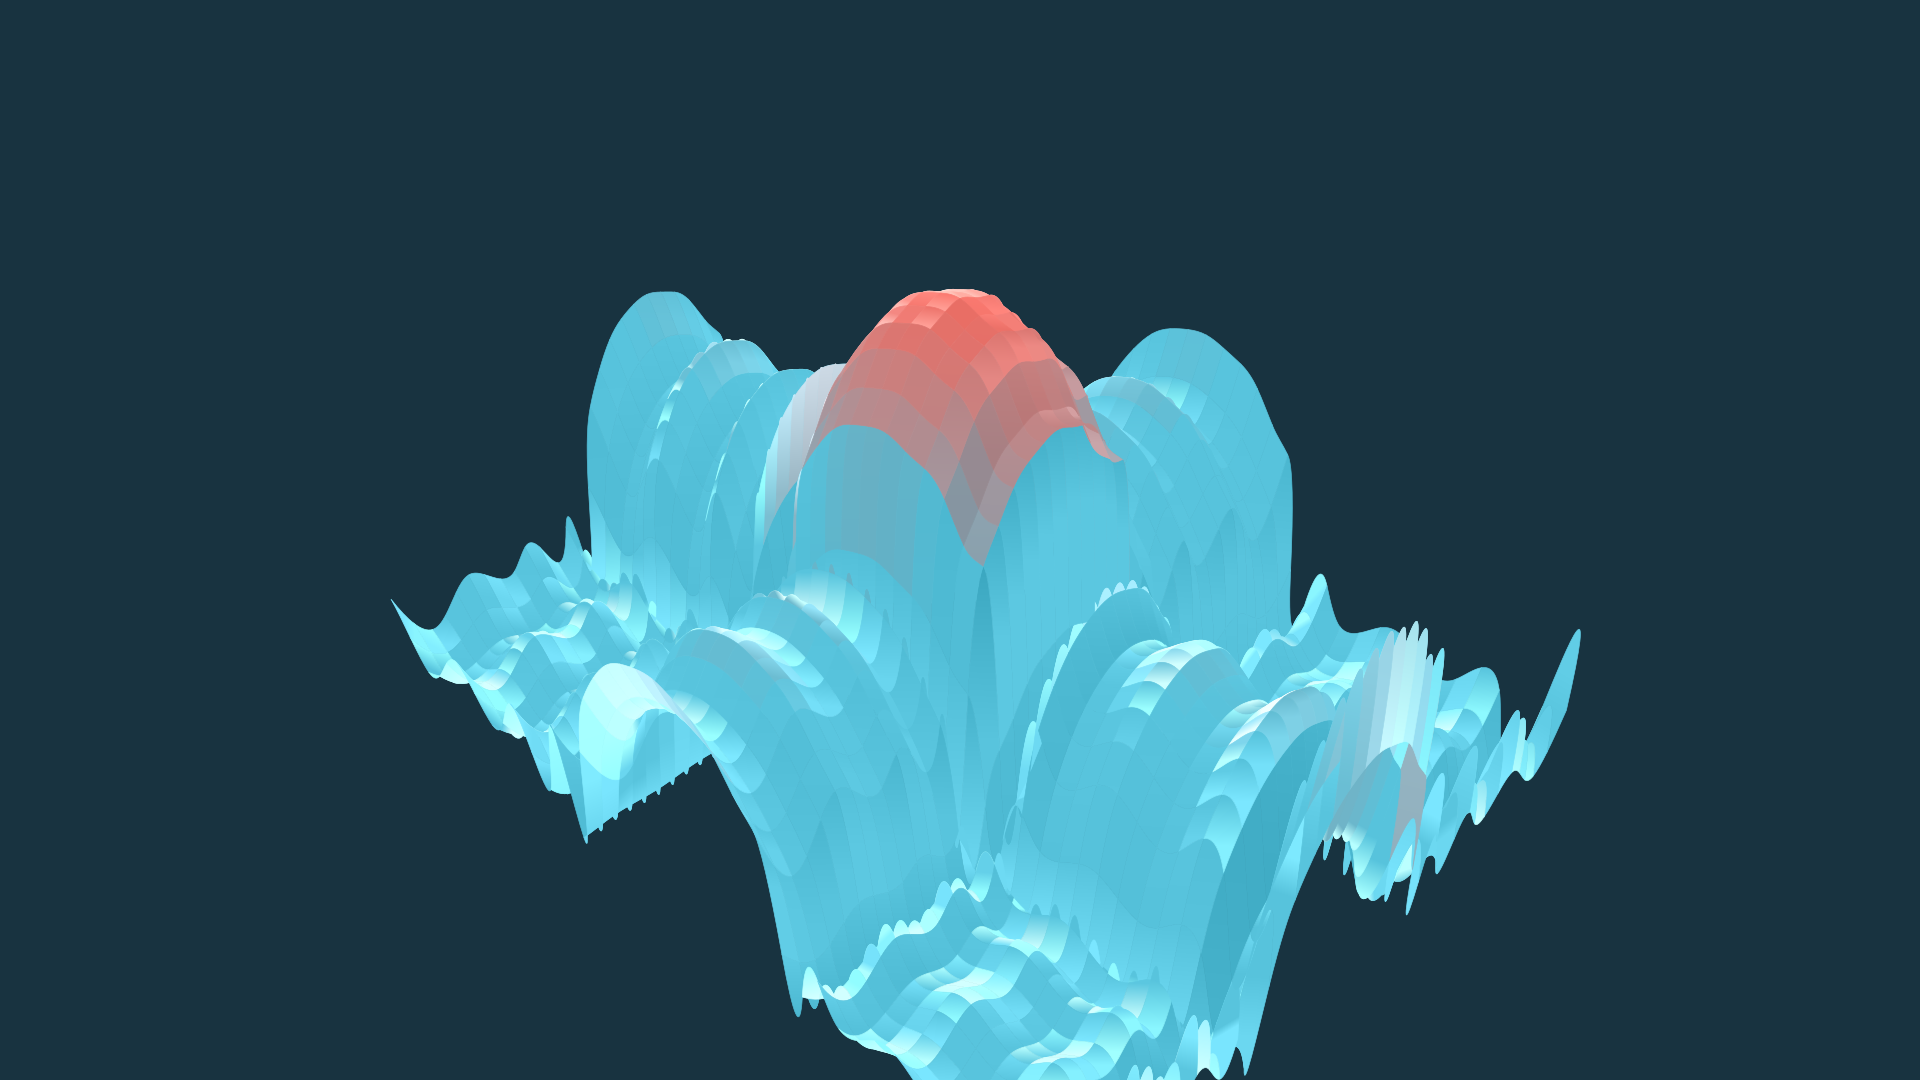
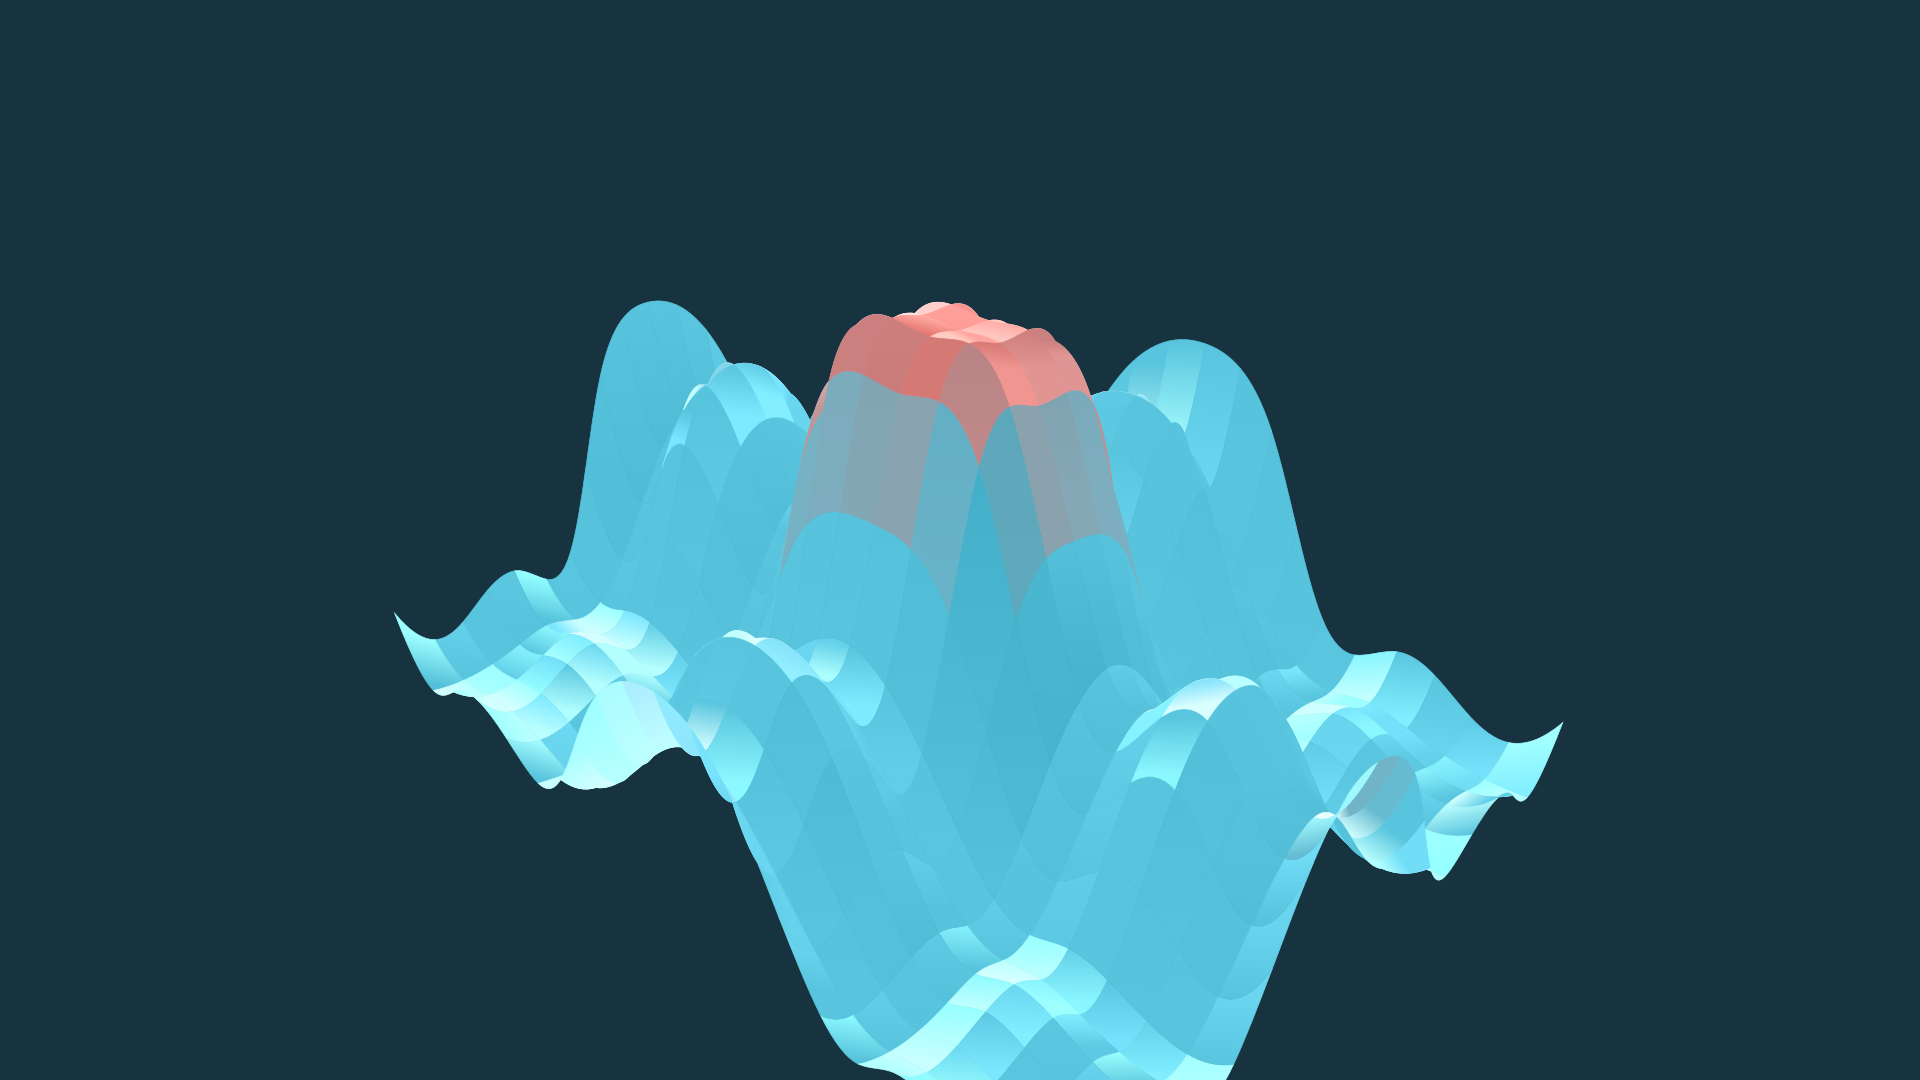
idk what I'm doing wrong

diff --git a/05_phased_array/phased_array.py b/05_phased_array/phased_array.py
@@ -24,7 +24,7 @@ config.background_color = BACKGROUND_COLOR
 
 BLOCKS = get_blocks()
 
-SKIP_ANIMATIONS_OVERRIDE = True
+SKIP_ANIMATIONS_OVERRIDE = False
 
 
 def skip_animations(b):
@@ -3820,8 +3820,8 @@ class AF3D(ThreeDScene):
         # window_m[M // 2] = 1
         window_n = signal.windows.taylor(N)
         window_m = signal.windows.taylor(M)
-        U_vis = 40
-        V_vis = 40
+        U_vis = 20
+        V_vis = 20
         u2 = np.linspace(-1, 1, U_vis)
         v2 = np.linspace(-1, 1, V_vis)
 
@@ -3853,10 +3853,10 @@ class AF3D(ThreeDScene):
         )
         surface = always_redraw(
             lambda: Surface(
-                lambda u, v: axes.c2p(
-                    spherical_to_cartesian((bisplev(u, v, tck), u, v))
-                ),
-                # lambda u, v: axes.c2p(u, v, bisplev(u, v, tck)),
+                # lambda u, v: axes.c2p(
+                #     spherical_to_cartesian((bisplev(u, v, tck), u, v))
+                # ),
+                lambda u, v: axes.c2p(u, v, bisplev(u, v, tck)),
                 u_range=[-1, 1],
                 v_range=[-1, 1],
                 resolution=(U_vis, V_vis),
@@ -3869,5 +3869,114 @@ class AF3D(ThreeDScene):
         )
 
         self.set_camera_orientation(theta=45 * DEGREES, phi=50 * DEGREES, zoom=0.7)
+
+        self.add(surface)
+
+
+class AF3D_Polar(ThreeDScene):
+    def construct(self):
+        plot_vel = (-20, 20)  # m/s
+        plot_range = (0, 40)  # m
+
+        # v_ind = np.where((vels > plot_vel[0]) & (vels < plot_vel[1]))[0]
+        # vx = vels[v_ind[0] : v_ind[-1]]
+
+        # n_ranges = np.linspace(-rmax / 2, rmax / 2, N)
+        # r_ind = np.where((n_ranges > plot_range[0]) & (n_ranges < plot_range[1]))[0]
+        # ry = n_ranges[r_ind[0] : r_ind[-1]]
+
+        # rdz = range_doppler[r_ind[0] : r_ind[-1], v_ind[0] : v_ind[-1]]
+        N = 9
+        M = 9
+        nbar_n = 5
+        nbar_m = 5
+        sll_n = 40
+        sll_m = 40
+
+        n = np.arange(N)
+        m = np.arange(M)
+        f_0 = 10e9
+        wavelength_0 = c / f_0
+        k_0 = 2 * PI / wavelength_0
+        d_x = wavelength_0 / 2
+
+        steering_angle = 0
+        u_0 = np.sin(steering_angle * PI / 180)
+
+        d_x = wavelength_0 / 2
+        d_y = wavelength_0 / 2
+
+        steering_angle_theta = 0
+        steering_angle_phi = 0
+
+        u_0 = np.sin(steering_angle_theta * PI / 180)
+        v_0 = np.sin(steering_angle_phi * PI / 180)
+
+        window_n = np.ones(N)
+        window_m = np.ones(M)
+
+        # window_n = np.zeros(N)
+        # window_n[N // 2] = 1
+        # window_m = np.zeros(M)
+        # window_m[M // 2] = 1
+        window_n = signal.windows.taylor(N)
+        window_m = signal.windows.taylor(M)
+        U_vis = 40
+        V_vis = 40
+        u2 = np.linspace(-1, 1, U_vis)
+        v2 = np.linspace(-1, 1, V_vis)
+
+        U, V = np.meshgrid(u2, v2, indexing="xy")  # mesh grid of sine space
+        # X, Y = np.meshgrid(vx, ry, indexing="xy")
+
+        z_min = -40
+        AF = 10 * np.log10(
+            np.abs(
+                compute_af_2d(
+                    window_n, window_m, d_x, d_y, k_0, u_0, v_0, U, V, M, N, m, n
+                )
+            )
+        )
+        AF -= AF.min()
+        AF /= AF.max()
+
+        tck = bisplrep(U, V, AF)
+
+        axes = ThreeDAxes(
+            x_range=[-1, 1, 1 / 2],
+            y_range=[-1, 1, 1 / 2],
+            z_range=[0, 1],
+            x_length=8,
+        )
+
+        def compute_surf(u, v):
+            Z = bisplev(u, v, tck)
+            R = np.sqrt(u**2 + v**2)
+            return axes.c2p(
+                *spherical_to_cartesian(
+                    (
+                        R,
+                        np.arctan2(R, Z),
+                        np.arctan2(v, u),
+                    )
+                )
+            )
+
+        surface = always_redraw(
+            lambda: Surface(
+                lambda u, v: compute_surf(u, v),
+                # lambda u, v: axes.c2p(u, v, bisplev(u, v, tck)),
+                u_range=[-1, 1],
+                v_range=[-1, 1],
+                resolution=(U_vis, V_vis),
+            )
+            .set_z(0)
+            .set_style(fill_opacity=1)
+            .set_fill_by_value(
+                axes=axes, colorscale=[(BLUE, 0), (RED, -z_min - 20)], axis=2
+            )
+        )
+
+        self.set_camera_orientation(theta=45 * DEGREES, phi=50 * DEGREES, zoom=0.3)
 
         self.add(surface)
